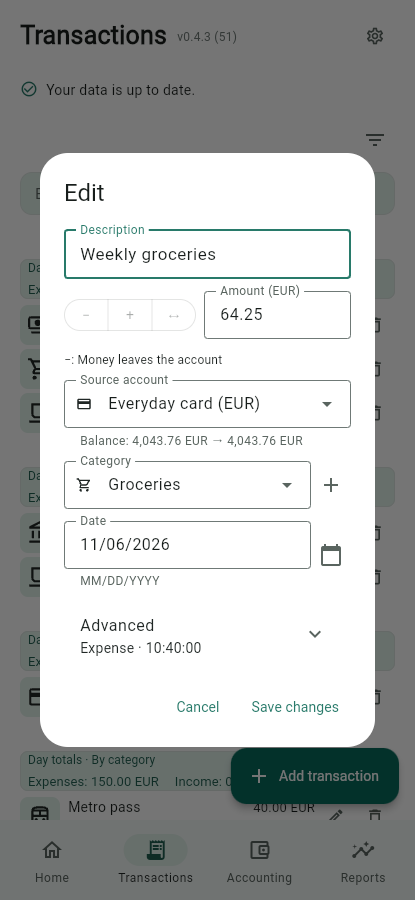
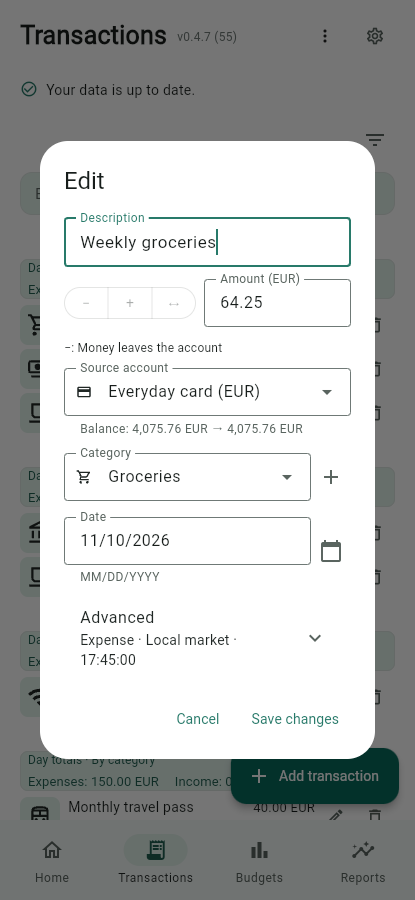
Prepare v0.4.7 and refresh README screenshots

diff --git a/README.md b/README.md
@@ -9,7 +9,7 @@ possible. Keep independent backups of important financial data.
 
 TextMoney is being developed with substantial AI assistance.
 
-![TextMoney v0.4.3 desktop Home with white surfaces, account icons, liability balances and cross-currency transfers](docs/screenshots/home-desktop.png)
+![TextMoney v0.4.7 desktop Home with seven sidebar destinations, account icons, liability balances and recent transactions](docs/screenshots/home-desktop.png)
 
 ## Implemented
 
@@ -25,18 +25,22 @@ TextMoney is being developed with substantial AI assistance.
 - Organize expenses with hierarchical categories.
 - Review balances in the configured currency order and compact transaction rows
   grouped by date, with summaries above account movements.
-- Use compact phone and desktop layouts, with Settings in a top-right gear on
-  mobile and in the navigation rail on wider screens. Transactions, Reports,
-  Accounting and wider-layout Settings reserve scrolling space below content
-  for the floating Add button.
+- Use compact phone and desktop layouts. The desktop sidebar opens Home,
+  Transactions, Budgets, Reports, Accounts, Categories and Settings directly.
+  Mobile shows the first four destinations in the bottom bar, with Accounts and
+  Categories under **More** beside the separate Settings gear. Secondary screens
+  have a Back action, and resizing preserves the current screen.
 - View income, net expenses and net result in currency-specific period reports,
   with current/previous month, year-to-date or custom date ranges and category
   breakdowns.
-- Manage journal-backed category budgets under **Accounting → Budgets** and
-  monitor spending under **Reports → Budgets**: a monthly spending overview,
-  searchable category/account trees, currency-specific figures and overspending.
-  Budget definitions support daily through yearly frequencies and historical
-  or future changes.
+- Manage journal-backed category budgets and monitor spending on one **Budgets**
+  screen, with monthly navigation, collapsible category/overspending filters,
+  currency-specific figures and transaction drilldown. Create budgets or open
+  **Budget history** even when the displayed month has no budget cards.
+  Cards show each limit's effective date and offer Edit, Delete, Change from a
+  date and Discontinue from a date. Dated changes preserve earlier limits;
+  history also exposes superseded, future and stopped definitions.
+  Budget definitions support daily through yearly frequencies.
   Calculations are checked against Fava 1.30.16 within TextMoney's existing
   accounting subset. See [Budgeting](docs/budgets.md).
 - Delete editable transactions after confirmation; deactivate and reactivate
@@ -145,7 +149,7 @@ Ubuntu or Arch configuration.
 
 1. Open TextMoney and choose a dedicated local data folder.
 2. Create an account with its currency and, optionally, an opening balance.
-3. Add expense categories under **Accounting → Categories**.
+3. Add expense categories under **Categories** (under **More** on mobile).
    Account and category creation forms offer optional **Choose icon**, with a
    preview before creation; the same picker is available when creating a category
    inside a transaction. Canceling creation does not save the icon.
@@ -159,7 +163,7 @@ the category selector shows income categories. For special receipts, use
 **Expense reimbursement** reduces an expense category, while
 **Balance adjustment** records receipts that should affect neither
 income nor current expenses (for example, recovery of a pre-tracking purchase).
-Create income categories under **Accounting → Categories** by selecting the Income category type.
+Create income categories under **Categories** by selecting the Income category type.
 Reimbursements reduce expenses on the date received, which can produce negative
 net expenses in that period. A linked expense is a reference, not a tracked debt.
 
@@ -226,16 +230,28 @@ Deleting an account/category with history, or a category with children, opens an
 explanation instead of the editor. Choose **Edit** there to change its Active
 checkbox; Cancel or Escape leaves it unchanged. Unused items still have a
 permanent-deletion confirmation.
+On wider layouts, a subtle row-wide hover highlight connects Edit/Delete actions
+with their account, category, transaction or budget.
 
 On desktop, **Escape** cancels the active popup and **Enter** submits through the
 same checks as its primary button. In multiline descriptions, **Shift+Enter**
 adds a new line. Focused buttons and dropdowns keep their normal keyboard actions;
 disabled actions cannot be submitted.
 
-<img src="docs/screenshots/expense-mobile.png" alt="Editing a EUR expense with matching account and category selectors in TextMoney v0.4.3's compact phone layout" width="360">
+<img src="docs/screenshots/expense-mobile.png" alt="Editing a EUR expense with account and category icons in TextMoney v0.4.7's compact phone layout" width="360">
 
-*Editing an expense in the compact layout. Screenshots use synthetic data from
-TextMoney v0.4.3 (build 51), not a personal journal.*
+*Editing an expense in the compact layout. All screenshots use synthetic data
+from TextMoney v0.4.7 (build 55), not a personal journal.*
+
+<img src="docs/screenshots/navigation-mobile.png" alt="TextMoney v0.4.7's four mobile bottom destinations and More menu for Accounts and Categories, beside the Settings gear" width="360">
+
+*The mobile More menu opens Accounts and Categories directly. The bottom bar
+and menu follow the same destination order as the desktop sidebar.*
+
+![TextMoney v0.4.7's unified Budgets screen, with Create budget and Budget history actions, effective limit dates and per-card actions](docs/screenshots/budgets-desktop.png)
+
+*Budgets keeps the selected month visible and filters tucked away. Dated limit
+history is available separately without switching tabs.*
 
 Settings lets you choose appearance and timezone. **Advanced → Journal display
 currencies** controls Home balance section order and how compatible applications
@@ -250,7 +266,7 @@ transfer fees remain expenses while transfer/loan principal and balance
 adjustments are excluded. Amounts in different currencies are always shown
 separately; reports do not infer exchange rates.
 
-![TextMoney v0.4.3 Reports in the desktop layout, with a calendar month heading and EUR income, expenses, net result and category totals](docs/screenshots/reports-desktop.png)
+![TextMoney v0.4.7 Reports in the desktop layout, with EUR income, expenses, net result and hierarchical category totals](docs/screenshots/reports-desktop.png)
 
 *A monthly report with separate income and expense category breakdowns.*
 
@@ -339,6 +355,7 @@ record historical behavior, not current instructions.
 
 | Version | Highlights |
 | --- | --- |
+| [0.4.7](https://github.com/pioneer/textmoney/releases/tag/v0.4.7) | Direct Budgets, Accounts and Categories destinations; shared mobile bottom-bar/More navigation; unified budgets with dated limit history; consistent toolbars and row hover feedback. Refreshed screenshots. Android build 55. |
 | [0.4.3](https://github.com/pioneer/textmoney/releases/tag/v0.4.3) | White light-theme surfaces with restrained mint accents; clearer transaction icons, calendar headings and status indicators; consistent selectors and inline deletion warnings; top-aligned Home balances. Refreshed screenshots. Android build 51. |
 | [0.4.0](https://github.com/pioneer/textmoney/releases/tag/v0.4.0) | Refined cross-currency transfers with two-line amounts and reciprocal rate previews; clearer native liability debt/credit balances; optional icons during account/category creation, including quick category creation. Refreshed screenshots. Android build 48. |
 | [0.3.16](https://github.com/pioneer/textmoney/releases/tag/v0.3.16) | First TextMoney release: unified application, storage and package identity; Android, Linux and Windows downloads. Includes account/category management, transactions, currency-separated reports, category budgets, conflict protection and verified backups. Android build 39. |
